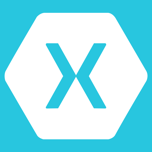
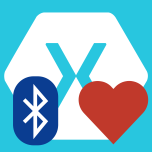
[hrm] update readme with screenshots

diff --git a/HeartRateMonitor/MainScreen.cs b/HeartRateMonitor/MainScreen.cs
@@ -11,10 +11,16 @@ using MonoTouch.HealthKit;
 namespace Xamarin.HeartMonitor
 {
 	/// <summary>
-	/// View containing Buttons, TextView and ImageViews to show off the samples
+	/// HeartRateMonitor sample for iOS 8
+	/// 
+	/// HRM code for Mac by Aaron Bockover
+	/// HealthKit integration by Larry O'Brien
 	/// </summary>
 	/// <remarks>
-	/// See the 'SampleCode.cs' file for the actual sample code
+	/// Icon for this app uses heart found here
+	/// https://www.iconfinder.com/icons/299063/heart_icon#size=512
+	/// and is used under the Creative Commons license
+	/// http://creativecommons.org/licenses/by/3.0/
 	/// </remarks> 
 	public class MainScreen : UIViewController
 	{
@@ -25,8 +31,6 @@ namespace Xamarin.HeartMonitor
 
 		UILabel statusLabel, heartRateLabel, heartRateUnitLabel, deviceNameLabel, permissionsLabel;
 		UIButton connectButton, storeData;
-
-		 
 
 		HKHealthStore healthKitStore;
 
@@ -53,15 +57,12 @@ namespace Xamarin.HeartMonitor
 			connectButton.Frame = new RectangleF (10, 160, 300, 30);
 			connectButton.TouchUpInside += ConnectToSelectedDevice;
 
-
-			permissionsLabel = new UILabel (new RectangleF (10, 200, 300, 30));
-			permissionsLabel.Text = "Permission was NOT granted to send to HealthKit :-(";
-			permissionsLabel.Hidden = false;
+			permissionsLabel = new UILabel (new RectangleF (10, 200, 300, 60));
 
 			storeData = UIButton.FromType (UIButtonType.System);
-			storeData.Frame = new RectangleF (10, 220, 300, 30);
-			storeData.SetTitle ("Store in HealthKit", UIControlState.Normal);
+			storeData.Frame = new RectangleF (10, 250, 300, 30);
 			storeData.SetTitle ("requires permission", UIControlState.Disabled);
+			storeData.SetTitle ("Store in HealthKit", UIControlState.Normal);
 			storeData.Enabled = false;
 			storeData.TouchUpInside += (sender, e) => {
 				UpdateHealthKit(heartRateLabel.Text); // pretty hacky :)
@@ -92,11 +93,13 @@ namespace Xamarin.HeartMonitor
 				InvokeOnMainThread (() => {
 					if (success) {
 						//Whatever...
-						permissionsLabel.Hidden = true;
+						Console.WriteLine ("RequestAuthorizationToShare: success");
+						permissionsLabel.Text = "HealthKit access is enabled!";
 						storeData.Enabled = true;
 					} else {
 						//Whatever...
-						permissionsLabel.Hidden = false;
+						Console.WriteLine ("RequestAuthorizationToShare:  failed");
+						permissionsLabel.Text = "No permission to access HealthKit :-(";
 						storeData.Enabled = false;
 					}
 					if (error != null) {
@@ -148,6 +151,8 @@ namespace Xamarin.HeartMonitor
 			deviceNameLabel.Text = String.Empty;
 			deviceNameLabel.Hidden = true;
 
+			connectButton.Enabled = false;
+
 			if (monitor != null) {
 				monitor.Dispose ();
 				monitor = null;
@@ -191,6 +196,7 @@ namespace Xamarin.HeartMonitor
 					monitor.Connect ();
 				}
 			} else {
+				statusLabel.Text = "No heart rate monitors detected";
 				Console.WriteLine ("No heart rate monitors detected");
 			}
 		}

diff --git a/HeartRateMonitor/AppDelegate.cs b/HeartRateMonitor/AppDelegate.cs
@@ -31,6 +31,9 @@ namespace Xamarin.HeartMonitor
 			window.BackgroundColor = UIColor.White;
 			window.Bounds = UIScreen.MainScreen.Bounds;
 
+			UINavigationBar.Appearance.TintColor = UIColor.Red;
+			UIButton.Appearance.TintColor = UIColor.Red;
+
 			window.RootViewController = ms;
             window.MakeKeyAndVisible ();
 			return true;

diff --git a/HeartRateMonitor/README.md b/HeartRateMonitor/README.md
@@ -1,9 +1,9 @@
-HeartRateMonitor
+HeartRateMonitor with HealthKit
 ===========
 
-iOS example based on the [Xamarin.Mac HeartRateMonitor](https://github.com/xamarin/mac-samples/tree/master/HeartRateMonitor) by [abock](https://github.com/abock).
+iOS example based on the [Xamarin.Mac HeartRateMonitor](https://github.com/xamarin/mac-samples/tree/master/HeartRateMonitor) by [abock](https://github.com/abock), with [HealthKit code](http://www.knowing.net/index.php/2014/07/11/exploring-healthkit-with-xamarin-provisioning-and-permissions-illustrated-walkthrough/) by [@lobrien](https://github.com/lobrien)
 
-The `HeartBeat`, `HeartBeatEventArgs`, `HeartRateMonitorLocation` classes are unchanged. The `HeartRateMonitor` class only required namespace changes. The `CoreBluetooth` APIs work identically across OS X and iOS.
+The `HeartBeat`, `HeartBeatEventArgs`, `HeartRateMonitorLocation` classes are unchanged from Aaron's Xamarin.Mac app. The `HeartRateMonitor` class only required namespace changes. The `CoreBluetooth` APIs work identically across OS X and iOS.
 
 It has been modified from the Xamarin.Mac sample in the following ways:
 
@@ -15,12 +15,18 @@ It has been modified from the Xamarin.Mac sample in the following ways:
 
 >(generally) alloc + copy is expensive. You're allocating that array on the heap each time, then copying memory to it, then reading it *vs* just reading the original memory. The unsafe dereference/read avoids both, which can be critical in fast paths
 
+* **Added HealthKit support for iOS 8!** When the app starts it requests permission to write to HealthKit. Then once connected to a device, every time you click on the *Store in HealthKit* button the app saves the currently displayed heart rate to HealthKit.
 
-A screenshot of the app running is shown below:
 
-![screenshot](https://raw.githubusercontent.com/conceptdev/xamarin-samples/master/HeartRateMonitor/Screenshots/HeartRateMonitor-sml.png "Heart Rate Monitor")
+A screenshot of the app running is shown here, with the HealthKit permissions screen that appears on app-startup:
+
+![screenshot](https://raw.githubusercontent.com/conceptdev/xamarin-samples/master/HeartRateMonitor/Screenshots/HeartRateMonitor-app-sml.png "Heart Rate Monitor app")
+
+The data looks like this inside Apple's *Health* app - it is graphed and can be drilled-down to the entry level
+
+![screenshot](https://raw.githubusercontent.com/conceptdev/xamarin-samples/master/HeartRateMonitor/Screenshots/Health-app-sml.png "Health app")
 
 Authors
 -------
 
-Aaron Bockover, Craig Dunn
+Aaron Bockover, Larry O'Brien, Craig Dunn
